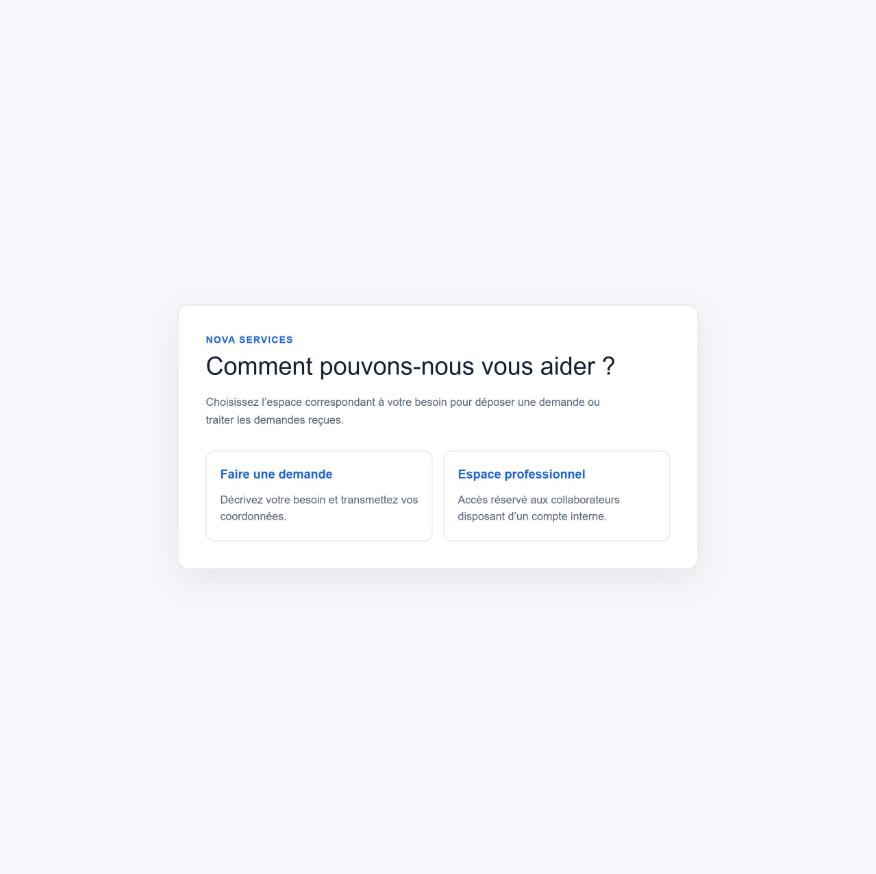
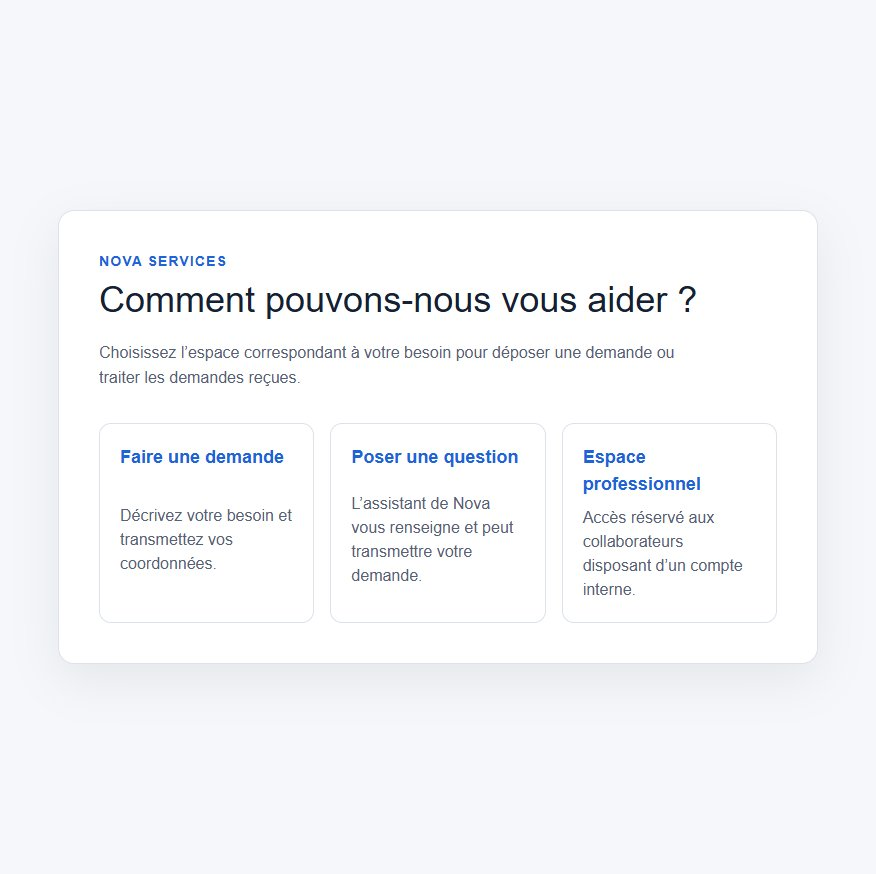
Nova Services : captures de l'accueil et du formulaire avec l'assistant

Changed region(s): [[0.1233, 0.278, 0.8014, 0.6796], [0.7705, 0.3089, 0.8014, 0.3398]]

diff --git a/projets/nova-services/README.md b/projets/nova-services/README.md
@@ -46,9 +46,9 @@ J'ai mené le projet de bout en bout, seul :
 | **L'administrateur** | Gérer les **comptes et les droits** de l'équipe, et les paramètres (catégories) |
 | **Le visiteur** | Poser ses questions à l'**assistant** de la page `/assistant` : réponses tirées des ressources de Nova (horaires, services, tarifs, procédures), avec la source citée ; s'il le souhaite, transmission de sa demande à l'équipe, après un récapitulatif et son accord explicite |
 
-![Page d'accueil : le client et l'équipe ont chacun leur entrée](accueil.jpg)
+![Page d'accueil : faire une demande, poser une question à l'assistant ou accéder à l'espace de l'équipe](accueil.jpg)
 
-![Formulaire de demande : champs obligatoires clairement signalés](formulaire.jpg)
+![Formulaire de demande : champs obligatoires clairement signalés, lien vers l'assistant](formulaire.jpg)
 
 ![Tableau de bord de l'équipe : ce qui est nouveau, en cours ou traité, en un coup d'œil](tableau-de-bord.jpg)
 
